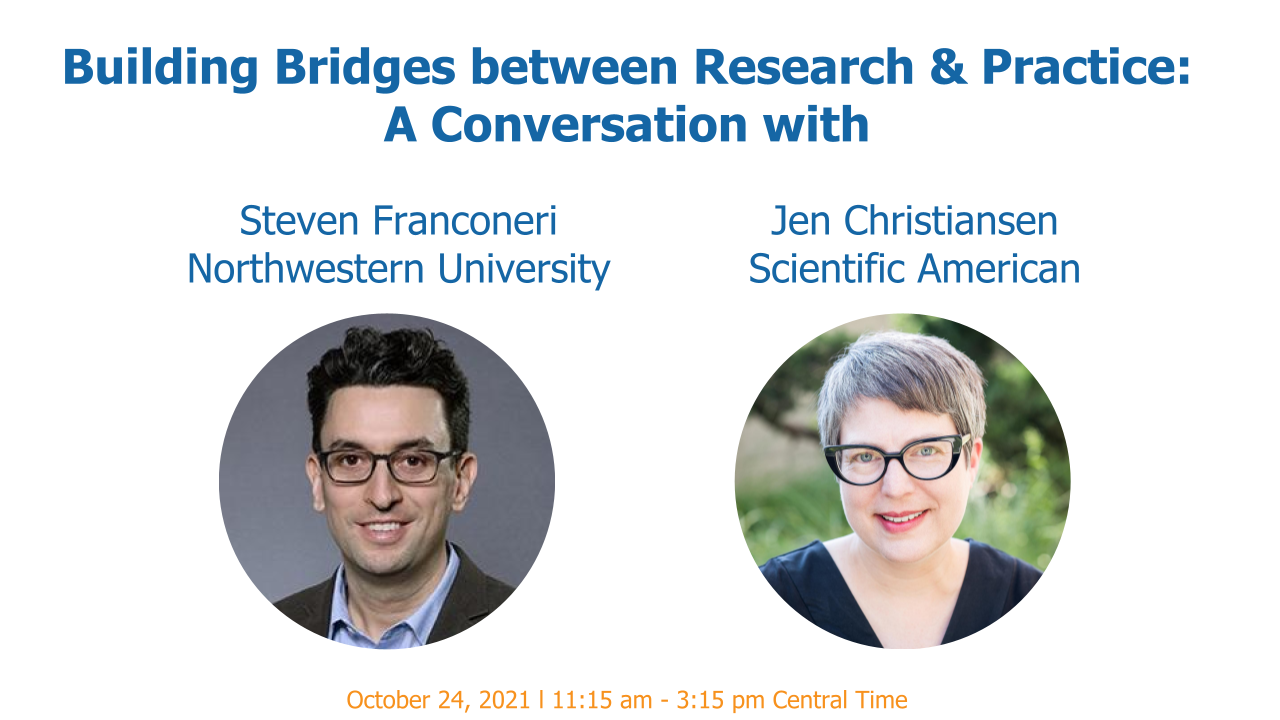
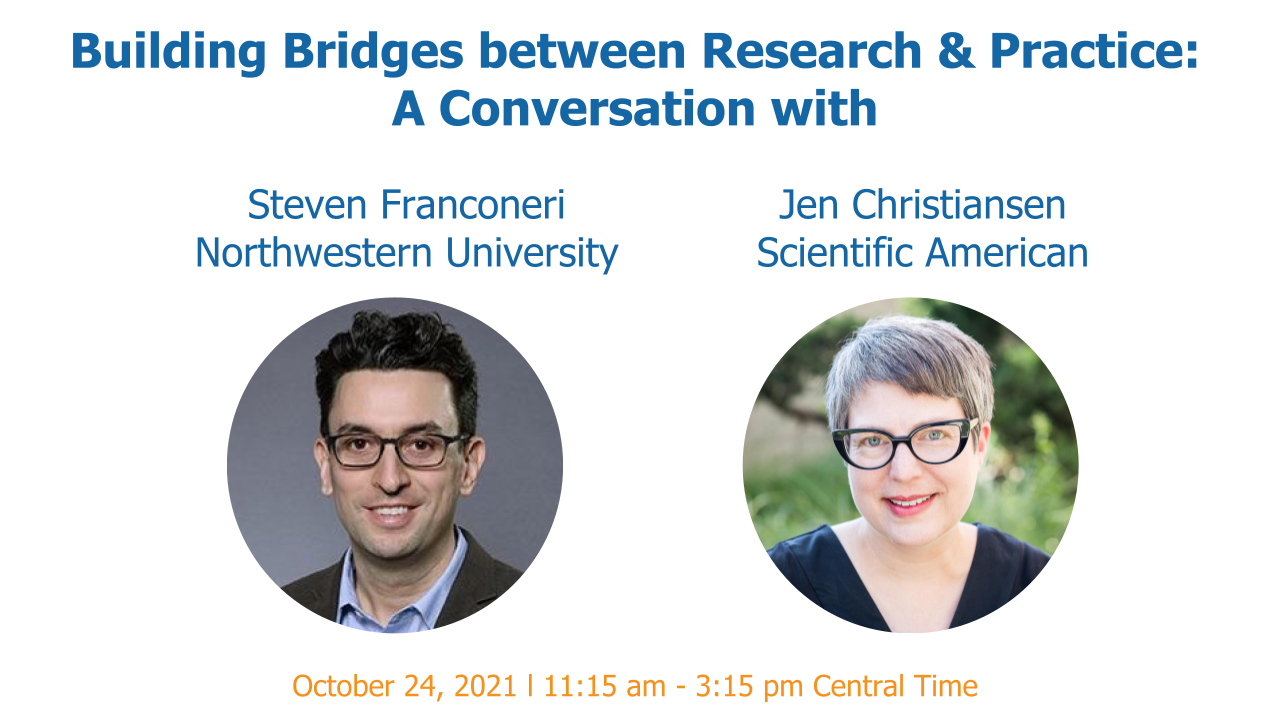
update panel image

Changed region(s): [[0.125, 0.2444, 0.8438, 1.0], [0.0312, 0.0306, 0.9375, 0.2139]]

diff --git a/index.html b/index.html
@@ -219,7 +219,7 @@
 <!-- Page content -->
 <div class="w3-content w3-padding-large w3-margin-top promo" id="promo">
   <!-- Image (Panel Promo) -->
-  <br/><br/><br/><br/> <br/>
+  <br/><br/><br/><br/> <br/><br/>
   <img src="./panel-promo.png" alt="Building Bridges between Research & Practice: A Conversation with Steven Franconeri and Jen Christiansen" class="w3-image" width="1000" height="500">
 </div>
 
